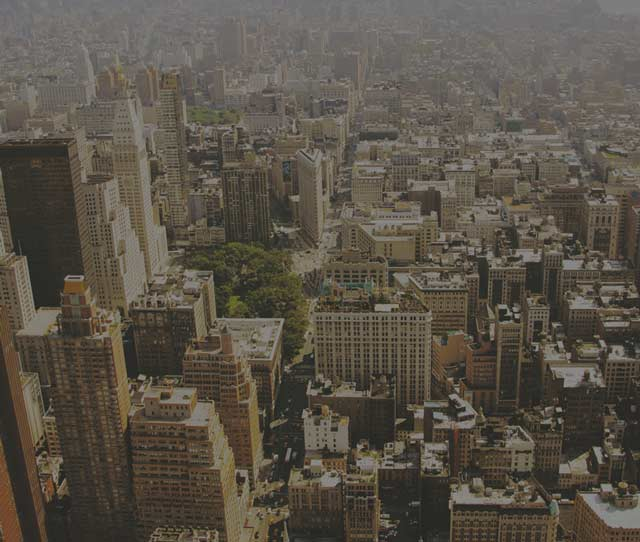
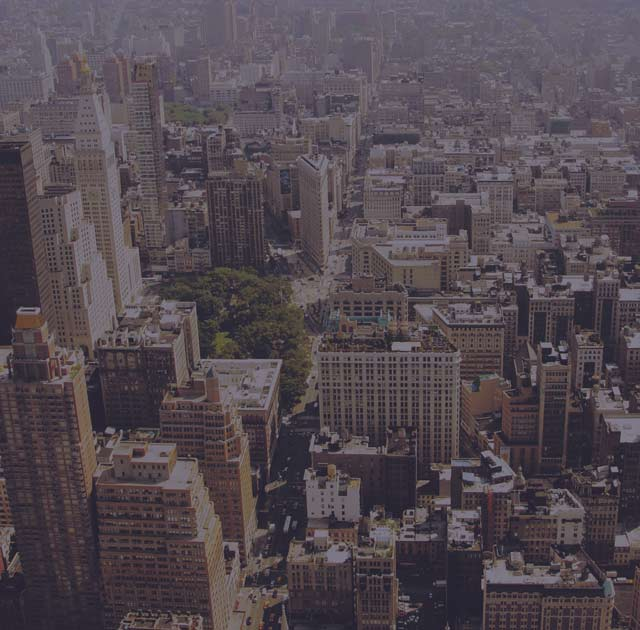
tweaked background image + position

diff --git a/assets/sass/_homepage.scss b/assets/sass/_homepage.scss
@@ -6,7 +6,7 @@
     padding: 2em 0;
     background-image: url('../assets/img/hero-a.jpg');
     background-repeat: no-repeat;
-    background-position: center bottom;
+    background-position: center top;
     background-size: cover;
     @media (min-width: $medium-screen) {
         padding: 7em 0 8em;

diff --git a/css/global.css b/css/global.css
@@ -822,7 +822,7 @@ textarea,
   padding: 2em 0;
   background-image: url("../assets/img/hero-a.jpg");
   background-repeat: no-repeat;
-  background-position: center bottom;
+  background-position: center top;
   background-size: cover; }
   @media (min-width: 33.75em) {
     .hero {
